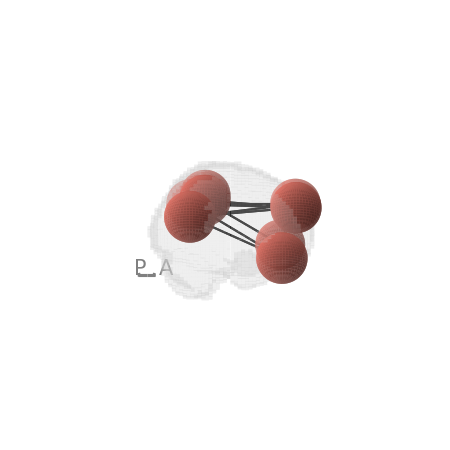
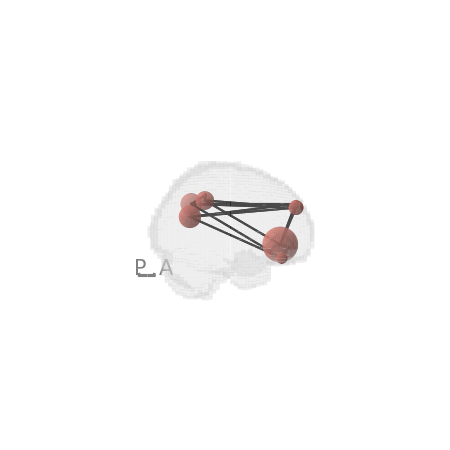
resizing

Changed region(s): [[0.56, 0.3733, 0.7156, 0.6533], [0.3422, 0.3733, 0.5289, 0.56]]

diff --git a/netonbrain/plotting/plot_spheres.py b/netonbrain/plotting/plot_spheres.py
@@ -1,29 +1,27 @@
-from mpl_toolkits.mplot3d import Axes3D
 import matplotlib.pyplot as plt
 import numpy as np
 import pandas as pd 
 
 
 def _plot_spheres(ax, nodes, nodecolor='salmon'):
-  
-  for i, row in nodes.iterrows(): 
-    #print(c, r)
-    c = [row['x'], row['y'], row['z']]
     
-    if "radius" in row.keys():
-        r = row["radius"]
-    else:
-        r = 7
+  if 'centrality' in nodes.keys():
+      ss = 'centrality'
     
-    u, v = np.mgrid[0:2*np.pi:50j, 0:np.pi:50j]
-    #print(u, v) 
-    x = r*np.cos(u)*np.sin(v)
-    #print(x)
-    y = r*np.sin(u)*np.sin(v)
-    z = r*np.cos(v)
-    
-    ax.plot_surface(c[0]+x, c[1]+y, c[2]+z, color=nodecolor, alpha=0.5*np.random.random()+0.5)
-    #print(x-c[0])
+      for i, row in nodes.iterrows(): 
+        c = [row['x'], row['y'], row['z']]
+        
+        r = row[ss]/10
+        
+        u, v = np.mgrid[0:2*np.pi:50j, 0:np.pi:50j]
+        
+        x = r*np.cos(u)*np.sin(v)
+        y = r*np.sin(u)*np.sin(v)
+        z = r*np.cos(v)
+        
+        ax.plot_surface(c[0]+x, c[1]+y, c[2]+z, color=nodecolor, alpha=0.5*np.random.random()+0.5)
+  else:
+        r = 2      
 
 if __name__=="__main__":
     
@@ -31,9 +29,14 @@ if __name__=="__main__":
     nodey = np.array([-60, -60, 40, 40, 56, 56, -44, -44])
     nodez = np.array([30, 30, -16, -16, 35, 35, 44, 44])
     
-    nodes = pd.DataFrame(data={'x': nodex, 'y': nodey, 'z': nodez})
+    # Some psuedo_centrality measure to demonstrate size
+    centrality = np.array([30, 30, 50, 15, 20, 10, 5, 25])
+    
+    nodes = pd.DataFrame(data={'x': nodex, 'y': nodey, 'z': nodez, 'centrality': centrality})
     
     fig = plt.figure()
     ax = fig.gca(projection='3d')
     _plot_spheres(ax, nodes)
+
+    
 

diff --git a/examples/example1.py b/examples/example1.py
@@ -3,6 +3,9 @@ import netonbrain as nob
 import pandas as pd
 import matplotlib.pyplot as plt
 
+from timeit import default_timer as timer
+start = timer()
+
 np.random.seed(2021)
 
 # 8 psudeorandom xyz coordinates
@@ -55,3 +58,7 @@ nob.plot(template='MNI152NLin2009cAsym', templatestyle='filled',
                     nodes=nodes, nodesize='centrality',
                     edges=edges, frames=3)
 plt.savefig('./examples/figures/seq2.png')
+
+
+end = timer()
+print(end - start) #52.613460625998414 sec for plottting all 8 spheres together
